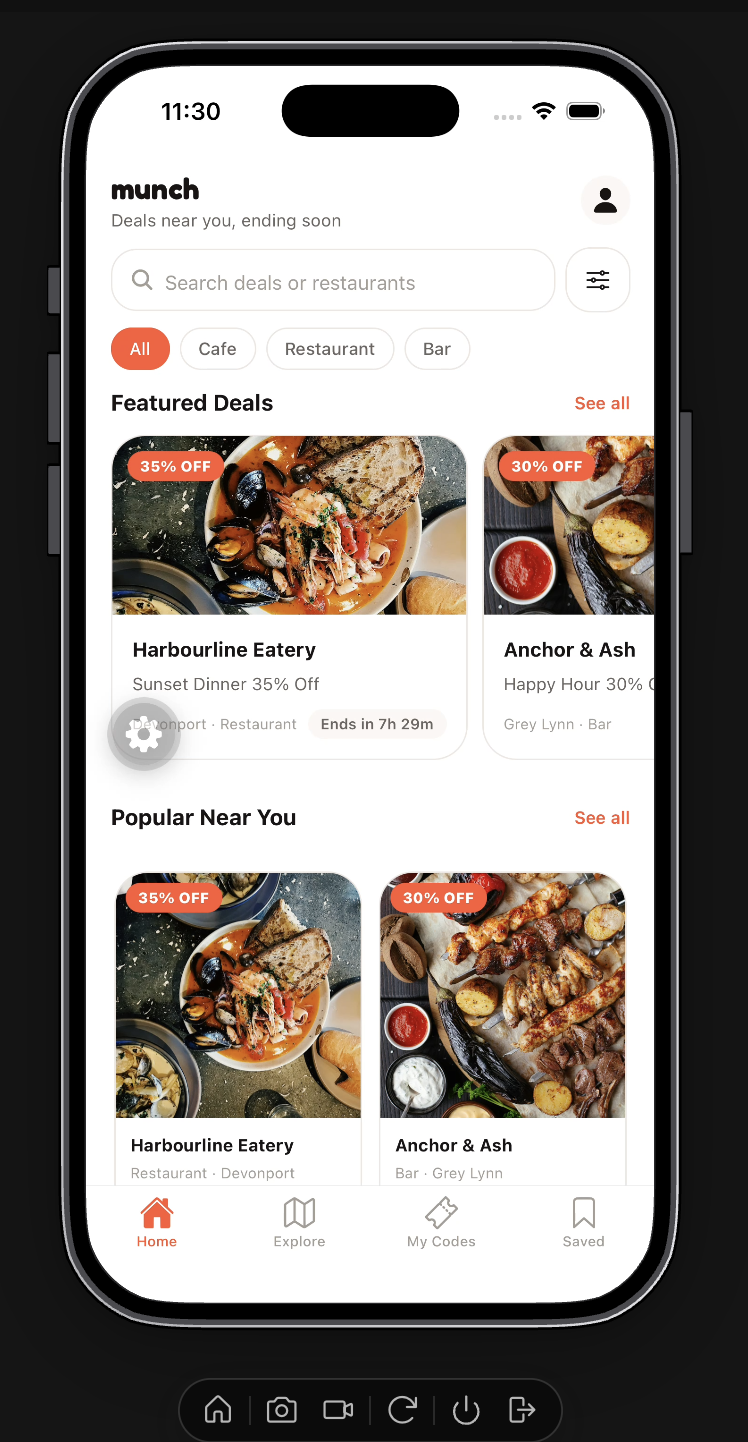
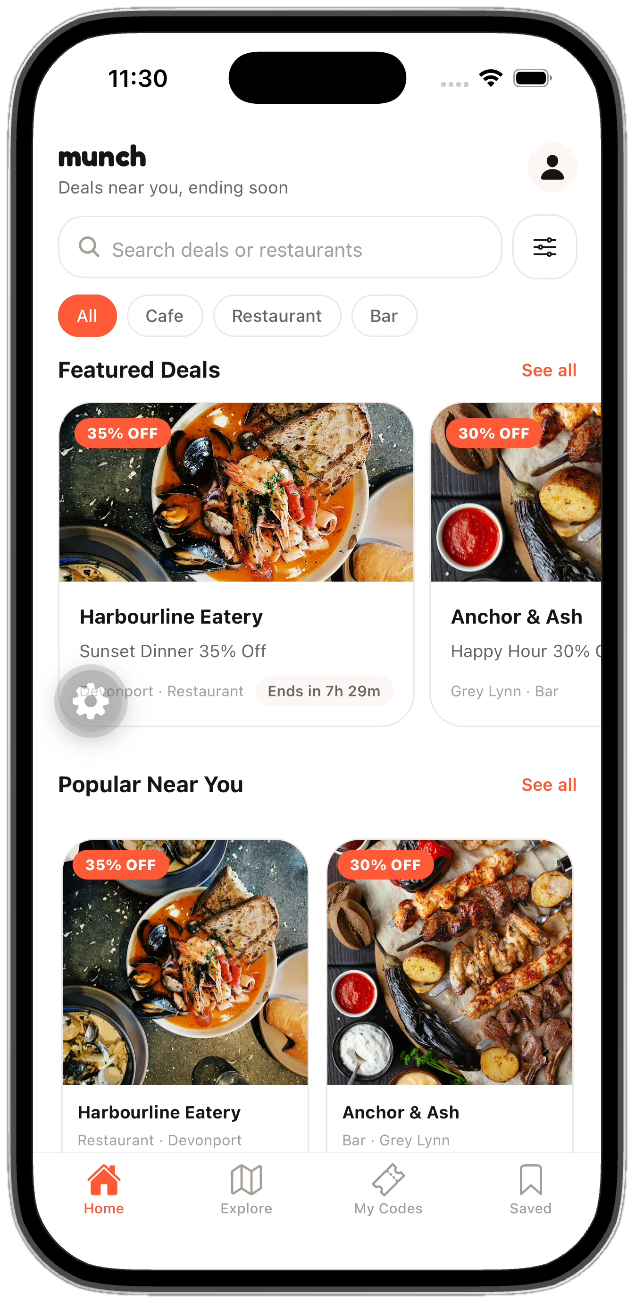
Remove background from home-screen phone screenshot
Cuts the black background out of the uploaded screenshot, keeping only
the phone silhouette on a transparent canvas, and drops the floating
emulator control bar that wasn't part of the phone. Updates the
Image size hints in Hero and AppShowcase to match the new cropped
dimensions.

diff --git a/components/AppShowcase.tsx b/components/AppShowcase.tsx
@@ -21,8 +21,8 @@ export function AppShowcase() {
             <Image
               src="/app/home-screen.png"
               alt="Munch home screen with featured deals, category filters and popular spots nearby"
-              width={748}
-              height={1442}
+              width={634}
+              height={1303}
               className="h-auto w-full"
             />
           </div>

diff --git a/components/Hero.tsx b/components/Hero.tsx
@@ -56,8 +56,8 @@ export function Hero() {
             <Image
               src="/app/home-screen.png"
               alt="Munch home screen showing featured deals and popular spots nearby"
-              width={748}
-              height={1442}
+              width={634}
+              height={1303}
               className="h-auto w-full"
               priority
             />
